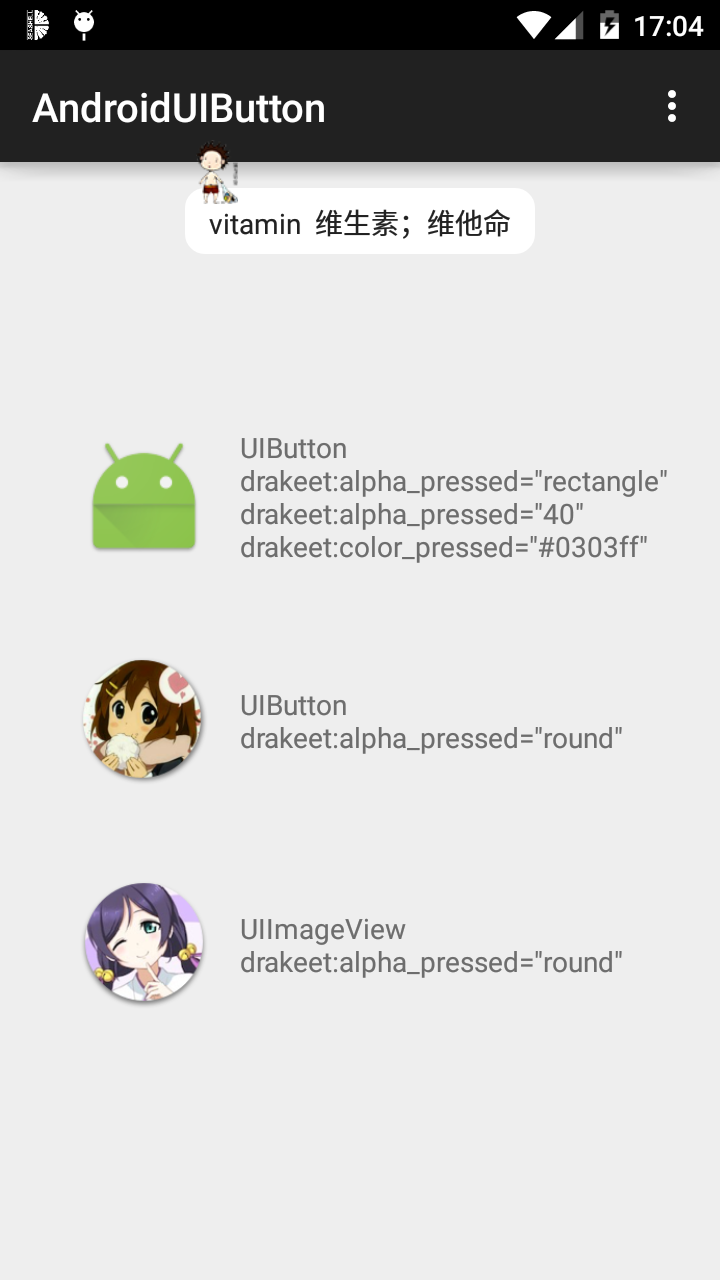
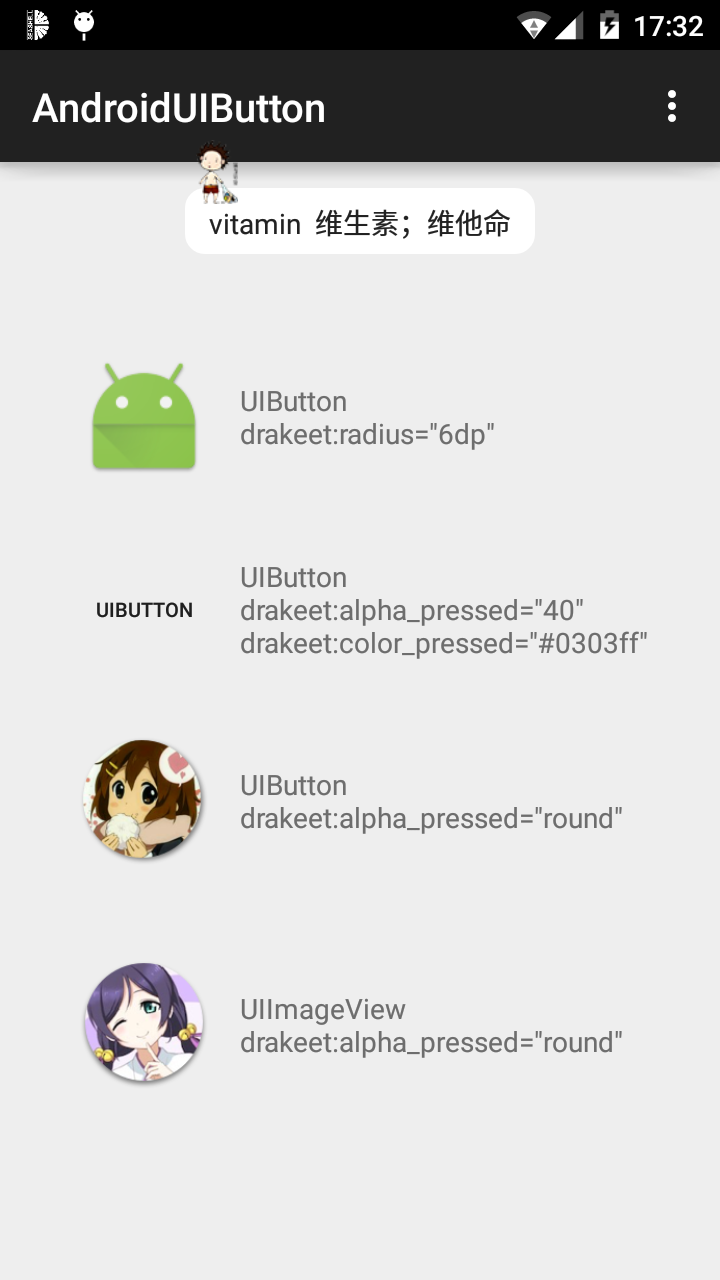
add more demos

diff --git a/library/src/main/java/me/drakeet/library/UIButton.java b/library/src/main/java/me/drakeet/library/UIButton.java
@@ -27,6 +27,7 @@ import android.content.Context;
 import android.content.res.TypedArray;
 import android.graphics.Canvas;
 import android.graphics.Paint;
+import android.graphics.RectF;
 import android.util.AttributeSet;
 import android.view.MotionEvent;
 import android.widget.Button;
@@ -43,6 +44,7 @@ public class UIButton extends Button {
     private int mPressedColor;
     private Paint mPaint;
     private int mShapeType;
+    private int mRadius;
 
     public UIButton(Context context) {
         super(context);
@@ -65,6 +67,7 @@ public class UIButton extends Button {
         mPressedColor = typedArray.getColor(R.styleable.UIButton_color_pressed, getResources().getColor(R.color.color_pressed));
         PAINT_ALPHA = typedArray.getInteger(R.styleable.UIButton_alpha_pressed, PAINT_ALPHA);
         mShapeType = typedArray.getInt(R.styleable.UIButton_shape_type, 1);
+        mRadius = typedArray.getDimensionPixelSize(R.styleable.UIButton_radius, getResources().getDimensionPixelSize(R.dimen.ui_radius));
         typedArray.recycle();
         mPaint = new Paint();
         mPaint.setStyle(Paint.Style.FILL);
@@ -89,7 +92,9 @@ public class UIButton extends Button {
         if (mShapeType == 0) {
             canvas.drawCircle(WIDTH/2, HEIGHT/2, WIDTH/2.1038f, mPaint);
         } else {
-            canvas.drawRect(0, 0, WIDTH, HEIGHT, mPaint);
+            RectF rectF = new RectF();
+            rectF.set(0, 0, WIDTH, HEIGHT);
+            canvas.drawRoundRect(rectF, mRadius, mRadius, mPaint);
         }
     }
 
